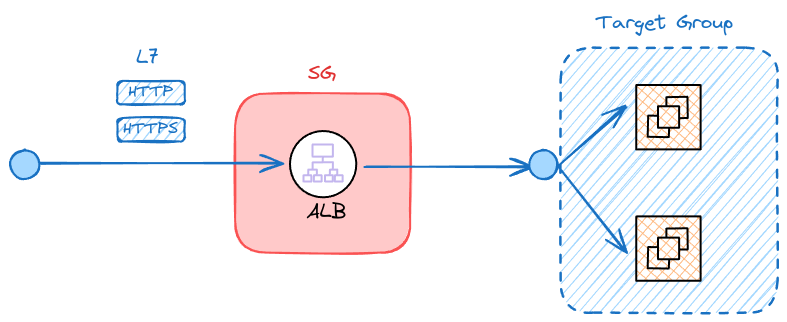
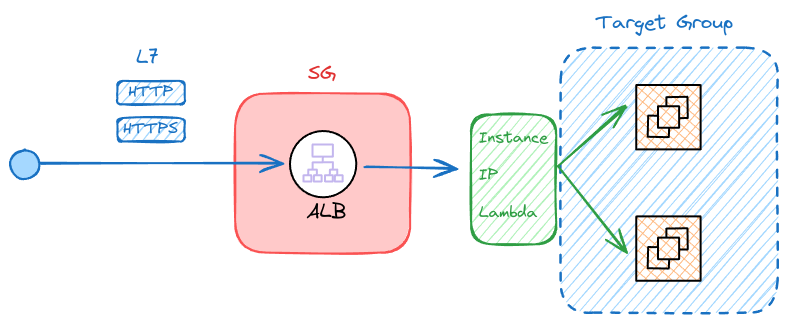
vault backup: 2024-07-03 17:09:39

Changed region(s): [[0.4574, 0.3416, 0.7624, 0.7764], [0.7624, 0.6832, 0.7929, 0.7764], [0.7624, 0.3106, 0.7929, 0.4037]]

diff --git a/Blog/AWS/assets/Excalidraw/ALB 프로세스.md b/Blog/AWS/assets/Excalidraw/ALB 프로세스.md
@@ -21,6 +21,12 @@ HTTPS ^bqnicLKk
 
 HTTP ^9MG4EuC6
 
+Lambda ^XM1Pskwq
+
+Instance ^Oswj8ShR
+
+IP ^kHOocnoC
+
 %%
 ## Drawing
 ```compressed-json
@@ -80,84 +86,88 @@ YR6c5M35A+oKLm35fm2uUFSs2OEqAqLjCqDMB9JDQSrs+jt4k22bRq5nBvaUSVZAN21Ub21VUfXVcO4B
 
[1 lines of base64/hex data omitted]
 
[2 lines of base64/hex data omitted]
 
[2 lines of base64/hex data omitted]
 
[2 lines of base64/hex data omitted]
 
[2 lines of base64/hex data omitted]
 
[2 lines of base64/hex data omitted]
 
[2 lines of base64/hex data omitted]
 
[2 lines of base64/hex data omitted]
 
[2 lines of base64/hex data omitted]
 
[2 lines of base64/hex data omitted]
 
[2 lines of base64/hex data omitted]
 
[2 lines of base64/hex data omitted]
 
[2 lines of base64/hex data omitted]
 
[2 lines of base64/hex data omitted]
 
[2 lines of base64/hex data omitted]
 
[2 lines of base64/hex data omitted]
 
[2 lines of base64/hex data omitted]
 
[2 lines of base64/hex data omitted]
 
[2 lines of base64/hex data omitted]
 
[2 lines of base64/hex data omitted]
 
[2 lines of base64/hex data omitted]
 
[2 lines of base64/hex data omitted]
 
[2 lines of base64/hex data omitted]
 
[2 lines of base64/hex data omitted]
 
[2 lines of base64/hex data omitted]
 
[2 lines of base64/hex data omitted]
 
[2 lines of base64/hex data omitted]
 
[2 lines of base64/hex data omitted]
 
[2 lines of base64/hex data omitted]
 
[2 lines of base64/hex data omitted]
 
[2 lines of base64/hex data omitted]
 
[2 lines of base64/hex data omitted]
 
[2 lines of base64/hex data omitted]
 
[2 lines of base64/hex data omitted]
 
[2 lines of base64/hex data omitted]
 
[2 lines of base64/hex data omitted]
 
[2 lines of base64/hex data omitted]
 
[2 lines of base64/hex data omitted]
 
[2 lines of base64/hex data omitted]
 
[2 lines of base64/hex data omitted]
 
[2 lines of base64/hex data omitted]
+
[1 lines of base64/hex data omitted]
+
+
 ```
 %%

diff --git a/Blog/AWS/분산제어/AWS 의 SLB 제어를 위한 ELB.md b/Blog/AWS/분산제어/AWS 의 SLB 제어를 위한 ELB.md
@@ -28,6 +28,10 @@
 
 **aws 는 4개의 ELB 유형**을 제공한다
 
-`Application Load Balancing`(`ALB`) 
+##### `Application Load Balancing`(`ALB`) 
 
+| 보안그룹 사용 | 대상 그룹 사용 | 대상 (그룹) 유형             | 계층  | 리스너 프로토콜    |
+| :------ | -------- | ---------------------- | --- | ----------- |
+| O       | O        | `인스턴스`, `IP`, `Lambda` | L7  | HTTP, HTTPS |
 ![[ALB 프로세스.png]]
+
